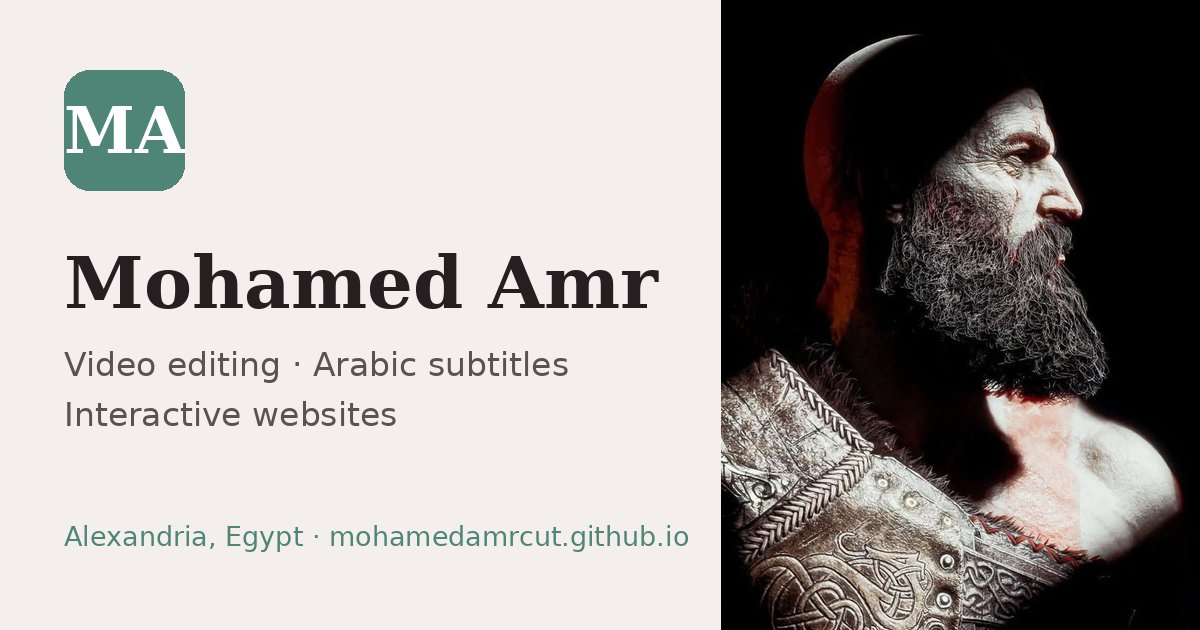
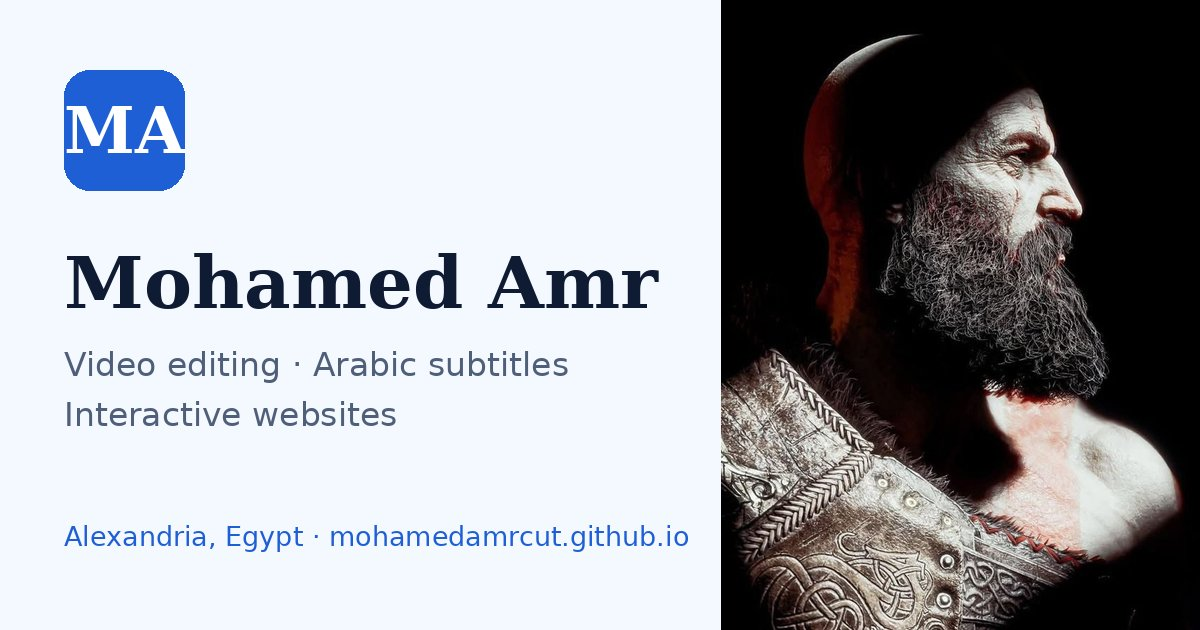
White and blue color scheme

diff --git a/style.css b/style.css
@@ -1,12 +1,12 @@
 
-:root{--sand:#f4efec;--page:#fff;--ink:#251f21;--ink2:#585254;--hair:#eae9ea;--teal:#4e8577;--teal-d:#3b685d}
+:root{--sand:#f4f8ff;--page:#fff;--ink:#0f1b33;--ink2:#4f5f7a;--hair:#e1e8f5;--teal:#1f5fd6;--teal-d:#1748a8}
 *{box-sizing:border-box}html{scroll-behavior:smooth}
 body{margin:0;background:var(--sand);color:var(--ink);font:400 16px/1.7 var(--f),-apple-system,"Segoe UI",Tahoma,sans-serif}
 h1,h2{font-family:var(--fh),Georgia,serif;font-weight:500;line-height:1.25;margin:0 0 12px}
 [dir=rtl] h1,[dir=rtl] h2{font-weight:700;line-height:1.45}
 h1{font-size:36px;letter-spacing:-.01em}h2{font-size:24px}
 a{color:var(--teal);text-decoration:none;font-weight:500}a:hover{text-decoration:underline}
-header{position:sticky;top:0;z-index:5;background:rgba(244,239,236,.94);backdrop-filter:blur(8px);border-bottom:1px solid var(--hair)}
+header{position:sticky;top:0;z-index:5;background:rgba(244,248,255,.94);backdrop-filter:blur(8px);border-bottom:1px solid var(--hair)}
 .bar{max-width:900px;margin:auto;display:flex;align-items:center;gap:6px;padding:10px 20px;flex-wrap:wrap}
 .brand{font-weight:700;color:var(--ink);margin-inline-end:auto;font-size:17px}.brand:hover{text-decoration:none}
 nav{display:flex;gap:4px;flex-wrap:wrap}
@@ -14,20 +14,20 @@ nav a{color:var(--ink2);padding:6px 14px;border-radius:999px;font-size:15px}
 nav a:hover{background:#fff;text-decoration:none}nav a.on{background:var(--ink);color:#fff}
 .sw{border:1px solid var(--ink2);color:var(--ink);padding:5px 14px;border-radius:999px;font-size:14px}.sw:hover{background:#fff;text-decoration:none}
 main{max-width:900px;margin:24px auto;padding:0 20px}
-.card{background:var(--page);border-radius:20px;padding:40px 36px;box-shadow:0 2px 18px rgba(37,31,33,.07);margin-bottom:22px;animation:rise .5s ease both}
+.card{background:var(--page);border-radius:20px;padding:40px 36px;box-shadow:0 2px 18px rgba(15,27,51,.07);margin-bottom:22px;animation:rise .5s ease both}
 @keyframes rise{from{opacity:0;transform:translateY(12px)}to{opacity:1;transform:none}}
 .fact{color:var(--teal);font-weight:600;font-size:14px;margin:0 0 14px}
 .kicker{color:var(--ink2);font-size:13px;letter-spacing:.1em;text-transform:uppercase;margin:0 0 6px}
 [dir=rtl] .kicker{letter-spacing:0}
 .btns{display:flex;gap:10px;flex-wrap:wrap;margin:20px 0 0}
 .btn{display:inline-flex;align-items:center;gap:8px;padding:12px 22px;border-radius:999px;border:1.5px solid var(--teal);color:var(--teal);font-weight:600;font-size:15px;background:#fff;cursor:pointer;font-family:inherit;transition:transform .15s,background .15s}
-.btn:hover{transform:translateY(-2px);text-decoration:none;background:#eef5f2}
+.btn:hover{transform:translateY(-2px);text-decoration:none;background:#e8f0fe}
 .btn.p{background:var(--teal);color:#fff}.btn.p:hover{background:var(--teal-d)}
 .strip{display:flex;gap:10px;overflow-x:auto;padding:6px 2px 14px;margin-top:20px}
 .strip img{height:240px;border-radius:14px;cursor:zoom-in;display:block;transition:transform .2s}.strip img:hover{transform:scale(1.03)}
 .cards{display:grid;grid-template-columns:repeat(3,1fr);gap:14px}
 .mini{display:block;border:1px solid var(--hair);border-radius:16px;padding:20px;color:var(--ink);transition:transform .2s,box-shadow .2s}
-.mini:hover{transform:translateY(-4px);box-shadow:0 8px 20px rgba(37,31,33,.1);text-decoration:none}
+.mini:hover{transform:translateY(-4px);box-shadow:0 8px 20px rgba(15,27,51,.1);text-decoration:none}
 .mini .ic{font-size:28px}.mini b{display:block;margin:6px 0 2px}.mini span{color:var(--ink2);font-size:14.5px;display:block}.mini em{font-style:normal;color:var(--teal);font-size:14px;font-weight:600;display:block;margin-top:10px}
 figure{margin:14px 0}figure img{max-width:230px;width:100%;border-radius:14px;display:block}
 figcaption{color:var(--ink2);font-size:13px;margin-top:8px}
@@ -36,7 +36,7 @@ summary{display:flex;gap:12px;align-items:center;padding:16px 20px;cursor:pointe
 summary::-webkit-details-marker{display:none}
 summary .pr{margin-inline-start:auto;color:var(--teal)}
 summary::after{content:"+";font-size:22px;color:var(--ink2);line-height:1;width:18px;text-align:center}
-details[open] summary::after{content:"\2212"}details[open]{background:#fbfaf9}
+details[open] summary::after{content:"\2212"}details[open]{background:#f7faff}
 .dbody{padding:0 20px 20px}.dbody p{margin:0 0 10px;color:var(--ink2)}
 .dbody ul{margin:0 0 14px;padding-inline-start:20px}.dbody li{margin:3px 0}.dbody h4{margin:10px 0 4px;font-size:14px}
 dl{display:grid;grid-template-columns:minmax(110px,180px) 1fr;margin:8px 0 0}
@@ -49,13 +49,13 @@ ol.steps li::before{content:counter(s);background:var(--teal);color:#fff;width:2
 .chip.on{background:var(--ink);border-color:var(--ink);color:#fff}
 .grid{display:grid;grid-template-columns:repeat(3,1fr);gap:14px;align-items:start}
 .work{border:1px solid var(--hair);border-radius:16px;overflow:hidden;background:#fff;transition:transform .2s,box-shadow .2s}
-.work:hover{transform:translateY(-3px);box-shadow:0 8px 20px rgba(37,31,33,.1)}
+.work:hover{transform:translateY(-3px);box-shadow:0 8px 20px rgba(15,27,51,.1)}
 .work img{width:100%;aspect-ratio:3/4;object-fit:cover;display:block;cursor:zoom-in}
 .work div{padding:12px 14px}.work b{display:block;font-size:14.5px;line-height:1.4}.work span{color:var(--ink2);font-size:13px;display:block;margin-top:2px}
 .work.hide{display:none}
 .note{background:var(--sand);border-radius:12px;padding:14px 16px;margin:18px 0;font-size:14.5px}.note b{display:block;margin-bottom:4px}
 .big{display:block;border:1px solid var(--hair);border-radius:16px;padding:18px 20px;margin:12px 0;color:var(--ink)}
-a.big:hover{background:#fbfaf9;text-decoration:none;border-color:var(--teal)}
+a.big:hover{background:#f7faff;text-decoration:none;border-color:var(--teal)}
 .big small{display:block;color:var(--ink2);font-size:13px}.big b{font-size:20px;direction:ltr;unicode-bidi:plaintext}
 .row{display:flex;gap:12px;align-items:center;flex-wrap:wrap}
 form label{display:block;font-weight:600;margin:14px 0 6px;font-size:14.5px}
@@ -64,17 +64,17 @@ input:focus,select:focus,textarea:focus{outline:none;border-color:var(--teal)}
 .hint{color:var(--ink2);font-size:13px;margin-top:10px}
 .links p{margin:10px 0}
 footer{color:var(--ink2);font-size:13px;text-align:center;padding:10px 20px 40px}
-#lb{position:fixed;inset:0;background:rgba(20,16,17,.88);display:none;align-items:center;justify-content:center;z-index:20;cursor:zoom-out}
+#lb{position:fixed;inset:0;background:rgba(11,18,32,.88);display:none;align-items:center;justify-content:center;z-index:20;cursor:zoom-out}
 #lb.open{display:flex}#lb img{max-width:92vw;max-height:88vh;border-radius:10px}
 .fab{position:fixed;bottom:18px;inset-inline-end:18px;z-index:6;box-shadow:0 6px 18px rgba(0,0,0,.2)}
 @media(max-width:700px){.card{padding:26px 20px}h1{font-size:28px}.cards,.grid{grid-template-columns:1fr 1fr}.strip img{height:190px}.brand{width:100%}}
 @media(max-width:460px){.cards{grid-template-columns:1fr}}
 
 .brand img{border-radius:8px;vertical-align:-9px;margin-inline-end:8px}
-.vp{position:relative;display:block;width:100%;border:0;padding:0;background:#151211;cursor:pointer}
+.vp{position:relative;display:block;width:100%;border:0;padding:0;background:#0b1220;cursor:pointer}
 .vp img{width:100%;aspect-ratio:3/4;object-fit:cover;display:block}
 .vp .play{position:absolute;inset:0;display:grid;place-items:center}
-.vp .play::before{content:"";width:56px;height:56px;border-radius:50%;background:rgba(37,31,33,.75)}
+.vp .play::before{content:"";width:56px;height:56px;border-radius:50%;background:rgba(15,27,51,.75)}
 .vp .play::after{content:"";position:absolute;width:0;height:0;border-left:16px solid #fff;border-top:10px solid transparent;border-bottom:10px solid transparent;margin-left:5px}
 .work video{width:100%;display:block;background:#000}
 .hp{position:absolute!important;left:-9999px!important;top:-9999px!important;opacity:0;height:0;width:0}

diff --git a/ar.html b/ar.html
@@ -8,7 +8,7 @@
 <link rel="alternate" hreflang="en" href="https://mohamedamrcut.github.io/index.html">
 <link rel="alternate" hreflang="ar" href="https://mohamedamrcut.github.io/ar.html">
 <link rel="alternate" hreflang="x-default" href="https://mohamedamrcut.github.io/index.html">
-<meta name="theme-color" content="#f4efec">
+<meta name="theme-color" content="#f4f8ff">
 <meta property="og:type" content="website">
 <meta property="og:site_name" content="Mohamed Amr">
 <meta property="og:title" content="محمد عمرو | مونتاج فيديو وترجمة عربية ومواقع تفاعلية">

diff --git a/index.html b/index.html
@@ -8,7 +8,7 @@
 <link rel="alternate" hreflang="en" href="https://mohamedamrcut.github.io/index.html">
 <link rel="alternate" hreflang="ar" href="https://mohamedamrcut.github.io/ar.html">
 <link rel="alternate" hreflang="x-default" href="https://mohamedamrcut.github.io/index.html">
-<meta name="theme-color" content="#f4efec">
+<meta name="theme-color" content="#f4f8ff">
 <meta property="og:type" content="website">
 <meta property="og:site_name" content="Mohamed Amr">
 <meta property="og:title" content="Mohamed Amr | Video Editing, Arabic Subtitles, Interactive Websites">

diff --git a/ar-services.html b/ar-services.html
@@ -8,7 +8,7 @@
 <link rel="alternate" hreflang="en" href="https://mohamedamrcut.github.io/services.html">
 <link rel="alternate" hreflang="ar" href="https://mohamedamrcut.github.io/ar-services.html">
 <link rel="alternate" hreflang="x-default" href="https://mohamedamrcut.github.io/index.html">
-<meta name="theme-color" content="#f4efec">
+<meta name="theme-color" content="#f4f8ff">
 <meta property="og:type" content="website">
 <meta property="og:site_name" content="Mohamed Amr">
 <meta property="og:title" content="الخدمات والأسعار | محمد عمرو">

diff --git a/ar-work.html b/ar-work.html
@@ -8,7 +8,7 @@
 <link rel="alternate" hreflang="en" href="https://mohamedamrcut.github.io/work.html">
 <link rel="alternate" hreflang="ar" href="https://mohamedamrcut.github.io/ar-work.html">
 <link rel="alternate" hreflang="x-default" href="https://mohamedamrcut.github.io/index.html">
-<meta name="theme-color" content="#f4efec">
+<meta name="theme-color" content="#f4f8ff">
 <meta property="og:type" content="website">
 <meta property="og:site_name" content="Mohamed Amr">
 <meta property="og:title" content="أعمال مختارة | محمد عمرو">

diff --git a/services.html b/services.html
@@ -8,7 +8,7 @@
 <link rel="alternate" hreflang="en" href="https://mohamedamrcut.github.io/services.html">
 <link rel="alternate" hreflang="ar" href="https://mohamedamrcut.github.io/ar-services.html">
 <link rel="alternate" hreflang="x-default" href="https://mohamedamrcut.github.io/index.html">
-<meta name="theme-color" content="#f4efec">
+<meta name="theme-color" content="#f4f8ff">
 <meta property="og:type" content="website">
 <meta property="og:site_name" content="Mohamed Amr">
 <meta property="og:title" content="Services and pricing | Mohamed Amr">

diff --git a/ar-contact.html b/ar-contact.html
@@ -8,7 +8,7 @@
 <link rel="alternate" hreflang="en" href="https://mohamedamrcut.github.io/contact.html">
 <link rel="alternate" hreflang="ar" href="https://mohamedamrcut.github.io/ar-contact.html">
 <link rel="alternate" hreflang="x-default" href="https://mohamedamrcut.github.io/index.html">
-<meta name="theme-color" content="#f4efec">
+<meta name="theme-color" content="#f4f8ff">
 <meta property="og:type" content="website">
 <meta property="og:site_name" content="Mohamed Amr">
 <meta property="og:title" content="تواصل | محمد عمرو">

diff --git a/contact.html b/contact.html
@@ -8,7 +8,7 @@
 <link rel="alternate" hreflang="en" href="https://mohamedamrcut.github.io/contact.html">
 <link rel="alternate" hreflang="ar" href="https://mohamedamrcut.github.io/ar-contact.html">
 <link rel="alternate" hreflang="x-default" href="https://mohamedamrcut.github.io/index.html">
-<meta name="theme-color" content="#f4efec">
+<meta name="theme-color" content="#f4f8ff">
 <meta property="og:type" content="website">
 <meta property="og:site_name" content="Mohamed Amr">
 <meta property="og:title" content="Contact | Mohamed Amr">

diff --git a/work.html b/work.html
@@ -8,7 +8,7 @@
 <link rel="alternate" hreflang="en" href="https://mohamedamrcut.github.io/work.html">
 <link rel="alternate" hreflang="ar" href="https://mohamedamrcut.github.io/ar-work.html">
 <link rel="alternate" hreflang="x-default" href="https://mohamedamrcut.github.io/index.html">
-<meta name="theme-color" content="#f4efec">
+<meta name="theme-color" content="#f4f8ff">
 <meta property="og:type" content="website">
 <meta property="og:site_name" content="Mohamed Amr">
 <meta property="og:title" content="Selected work | Mohamed Amr">
